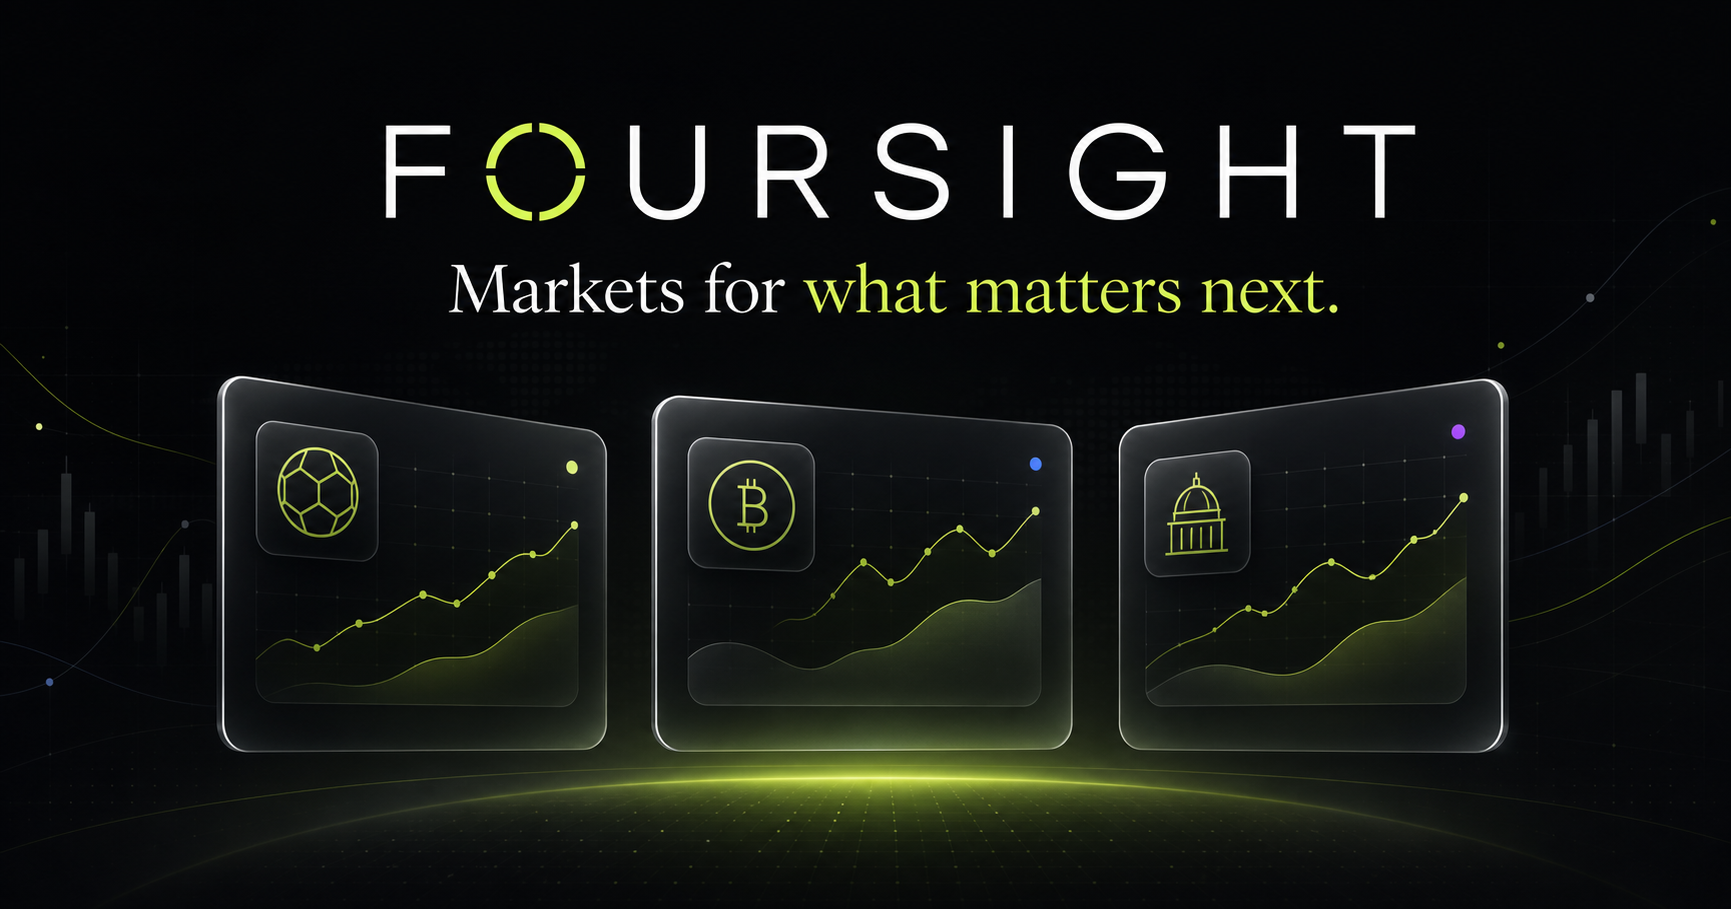
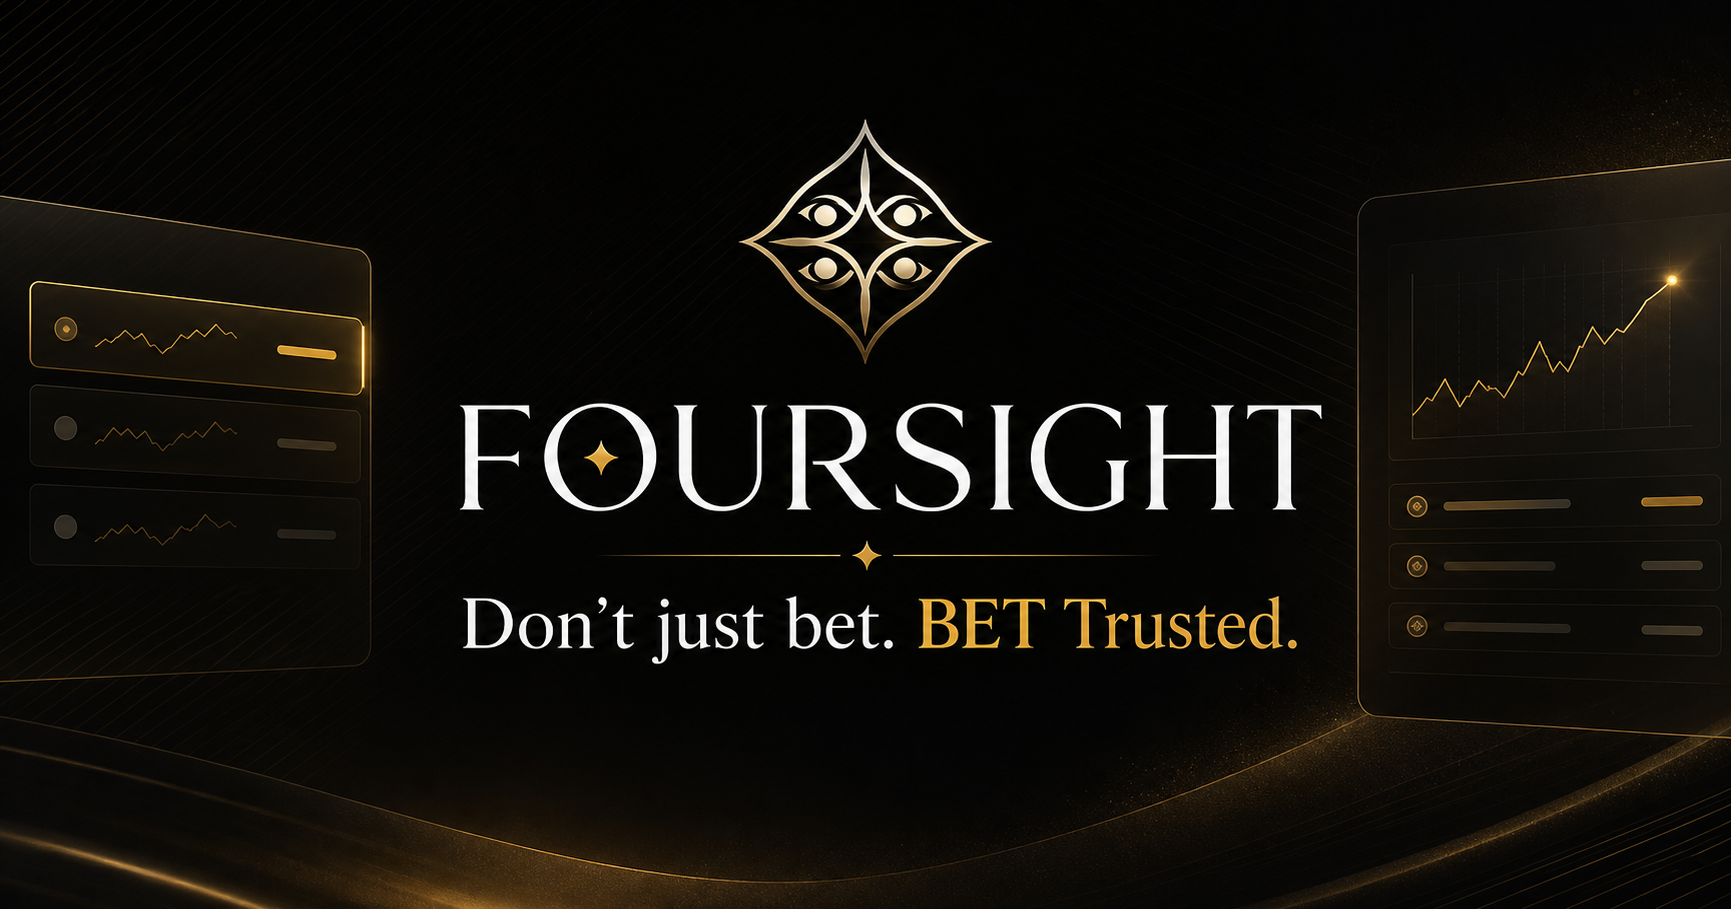
Apply black and gold Foursight identity

diff --git a/app/globals.css b/app/globals.css
@@ -1,6 +1,6 @@
 @import "tailwindcss";
 
-:root { --bg:#07090b; --panel:rgba(20,24,27,.68); --line:rgba(255,255,255,.095); --muted:#929aa3; --lime:#c9ff3d; --green:#54e38e; --text:#f5f7f2; }
+:root { --bg:#050504; --panel:rgba(22,19,10,.72); --line:rgba(255,196,0,.13); --muted:#999b9f; --lime:#ffc400; --green:#21d777; --text:#fffdf7; }
 *{box-sizing:border-box} html{scroll-behavior:smooth} body{margin:0;background:var(--bg);color:var(--text);font-family:Arial,Helvetica,sans-serif;overflow-x:hidden} button,input{font:inherit} button,a{color:inherit} button{cursor:pointer}.glass{background:linear-gradient(135deg,rgba(29,33,36,.72),rgba(11,14,16,.58));border:1px solid var(--line);box-shadow:inset 0 1px 0 rgba(255,255,255,.055),0 24px 60px rgba(0,0,0,.25);backdrop-filter:blur(24px);-webkit-backdrop-filter:blur(24px)}
 main{min-height:100vh;background-image:linear-gradient(rgba(255,255,255,.018) 1px,transparent 1px),linear-gradient(90deg,rgba(255,255,255,.018) 1px,transparent 1px);background-size:72px 72px}.ambient{position:fixed;z-index:-1;border-radius:50%;filter:blur(110px);opacity:.17}.ambient-one{width:440px;height:440px;background:#9cff45;top:-180px;left:35%}.ambient-two{width:560px;height:560px;background:#2775ca;right:-280px;top:48%}
 .nav{position:fixed;z-index:50;top:18px;left:50%;transform:translateX(-50%);width:min(1180px,calc(100% - 36px));height:66px;border-radius:18px;display:flex;align-items:center;padding:0 14px 0 20px}.brand{display:flex;align-items:center;gap:10px;text-decoration:none;font-weight:900;letter-spacing:.09em;font-size:14px}.brand-mark{display:grid;place-items:center;width:30px;height:30px;border-radius:9px;background:var(--lime);color:#071000;font-family:Georgia,serif;font-size:19px;box-shadow:0 0 24px rgba(201,255,61,.23)}.brand em{font-style:normal;font-size:8px;letter-spacing:.12em;padding:4px 6px;background:rgba(201,255,61,.12);border:1px solid rgba(201,255,61,.22);color:var(--lime);border-radius:4px}.nav nav{display:flex;gap:32px;margin:auto}.nav nav a,.footer a{color:#a4abb1;text-decoration:none;font-size:13px}.nav nav a:hover,.footer a:hover{color:white}.nav-actions{display:flex;gap:8px}.nav button{border:0}.icon-button,.topup-mini,.secondary{background:rgba(255,255,255,.045);border:1px solid var(--line)!important;border-radius:11px}.icon-button{width:38px}.topup-mini{padding:0 14px}.primary{background:var(--lime);border:1px solid var(--lime);border-radius:12px;color:#0a0d08;font-weight:800;padding:15px 21px;box-shadow:0 8px 30px rgba(201,255,61,.13);transition:.2s;text-decoration:none}.primary:hover{background:#d7ff6c;transform:translateY(-1px)}.primary.small{padding:12px 18px}.primary:disabled{opacity:.4;cursor:not-allowed;transform:none}
@@ -12,3 +12,24 @@ main{min-height:100vh;background-image:linear-gradient(rgba(255,255,255,.018) 1p
 @keyframes pop{from{opacity:0;transform:translateY(12px) scale(.98)}to{opacity:1;transform:none}}
 @media(max-width:900px){.nav nav{display:none}.nav-actions{margin-left:auto}.market-grid{grid-template-columns:repeat(2,1fr)}.how{grid-template-columns:1fr}.activity{align-items:flex-start;flex-direction:column;gap:35px}.ticker{grid-template-columns:repeat(3,1fr)}.ticker div:nth-child(n+4){display:none}.stats{width:100%;justify-content:space-between}}
 @media(max-width:620px){.nav{top:10px;height:60px}.brand em,.icon-button,.topup-mini{display:none}.hero{padding-top:145px}.hero h1{font-size:50px}.hero>p{font-size:15px}.proof{flex-wrap:wrap}.ticker{grid-template-columns:1fr}.ticker div{border:0}.ticker div:nth-child(n+2){display:none}.section-heading{align-items:flex-start;flex-direction:column;gap:15px}.market-tools{align-items:stretch;flex-direction:column}.tabs{overflow-x:auto}.tabs button{white-space:nowrap}.search{border:0;border-top:1px solid var(--line);padding:12px}.market-grid{grid-template-columns:1fr}.steps{grid-template-columns:1fr}.steps article{min-height:210px}.step-icon{margin:25px 0 18px}.activity{padding:28px}.activity h2{font-size:30px}.stats{gap:15px}.stats b{font-size:20px}.footer{grid-template-columns:1fr}.footer small{grid-column:auto}.coin-grid{grid-template-columns:repeat(2,1fr)}.modal{padding:28px 22px}.hero-actions{flex-direction:column;align-items:stretch;max-width:300px;margin-left:auto;margin-right:auto}}
+
+/* Black & gold Foursight identity */
+.glass{background:linear-gradient(135deg,rgba(27,23,12,.82),rgba(8,8,7,.72));border-color:rgba(255,196,0,.13);box-shadow:inset 0 1px 0 rgba(255,220,105,.07),0 24px 70px rgba(0,0,0,.42)}
+main{background-image:linear-gradient(rgba(255,190,0,.014) 1px,transparent 1px),linear-gradient(90deg,rgba(255,190,0,.014) 1px,transparent 1px),repeating-linear-gradient(105deg,transparent 0 10px,rgba(255,188,0,.012) 11px 12px);background-size:72px 72px,72px 72px,auto}
+.ambient{animation:ambientFloat 9s ease-in-out infinite alternate}.ambient-one{width:520px;height:520px;background:#ffb900;opacity:.2}.ambient-two{background:#7d4b00;opacity:.2;animation-delay:-4s}
+.page-watermark{position:fixed;z-index:-1;opacity:.027;filter:grayscale(1);pointer-events:none;animation:slowSpin 38s linear infinite}.watermark-left{width:310px;left:-150px;top:58%}.watermark-right{width:400px;right:-220px;top:20%;animation-direction:reverse}
+.brand-emblem{width:31px;height:31px;object-fit:contain;filter:drop-shadow(0 0 10px rgba(255,196,0,.35))}.brand-wordmark{width:104px;height:31px;object-fit:contain}.brand em{background:rgba(255,196,0,.1);border-color:rgba(255,196,0,.25);color:#ffc400}
+.primary{background:linear-gradient(135deg,#ffd02b,#ffb800);border-color:#ffc400;box-shadow:0 9px 34px rgba(255,184,0,.18)}.primary:hover{background:linear-gradient(135deg,#ffe06a,#ffc21c);box-shadow:0 12px 45px rgba(255,184,0,.3)}
+.hero{position:relative;padding-top:176px}.hero-emblem{width:58px;height:58px;object-fit:contain;margin-bottom:18px;filter:drop-shadow(0 0 24px rgba(255,196,0,.25));animation:logoPulse 3.6s ease-in-out infinite}.hero h1{font-family:Georgia,'Times New Roman',serif;letter-spacing:-.045em}.hero h1 .gold{color:#ffbd00;background:none}.rotator{position:relative;display:inline-block;width:270px;height:1.08em;vertical-align:bottom;overflow:hidden;border:1px solid rgba(255,190,0,.38);border-radius:12px;background:rgba(255,190,0,.055);box-shadow:inset 0 0 25px rgba(255,190,0,.035)}.rotator b{position:absolute;inset:0;display:grid;place-items:center;color:#fff;font-size:.55em;letter-spacing:-.025em;opacity:0;animation:wordCycle 7.5s infinite}.rotator b:nth-child(2){animation-delay:2.5s}.rotator b:nth-child(3){animation-delay:5s}
+.eyebrow{border-color:rgba(255,196,0,.2);background:rgba(255,196,0,.055)}.eyebrow i,.live-pill i{background:#ffc400;box-shadow:0 0 12px #ffc400}.market-card:hover{border-color:rgba(255,196,0,.32);box-shadow:0 25px 80px rgba(0,0,0,.48),0 0 36px rgba(255,181,0,.045)}.tabs button.active,.outcomes button:hover,.step-icon{background:rgba(255,196,0,.08);border-color:rgba(255,196,0,.25);box-shadow:inset 0 0 0 1px rgba(255,196,0,.14)}.coin-grid button.selected{border-color:rgba(255,196,0,.62);background:rgba(255,196,0,.07)}.selection{border-color:rgba(255,196,0,.24);background:rgba(255,196,0,.06)}
+.ticker{display:block;overflow:hidden;padding:16px 0}.ticker-track{display:flex!important;width:max-content;padding:0!important;border:0!important;animation:tickerMove 24s linear infinite}.ticker-track>div{width:236px;flex:none}.ticker:hover .ticker-track{animation-play-state:paused}.modal-mark img{width:29px;height:29px;object-fit:contain}.modal-mark{box-shadow:0 0 30px rgba(255,196,0,.2)}
+.market-card{animation:cardReveal .6s both}.market-card:nth-child(2){animation-delay:.07s}.market-card:nth-child(3){animation-delay:.14s}.market-card:nth-child(4){animation-delay:.21s}.market-card:nth-child(5){animation-delay:.28s}.market-card:nth-child(6){animation-delay:.35s}.steps article{transition:.3s}.steps article:hover{transform:translateY(-7px);border-color:rgba(255,196,0,.24)}
+@keyframes wordCycle{0%{opacity:0;transform:translateY(90%);filter:blur(5px)}10%,27%{opacity:1;transform:none;filter:none}34%,100%{opacity:0;transform:translateY(-90%);filter:blur(5px)}}
+@keyframes tickerMove{to{transform:translateX(-50%)}}
+@keyframes logoPulse{50%{transform:translateY(-5px) scale(1.035);filter:drop-shadow(0 0 34px rgba(255,196,0,.48))}}
+@keyframes ambientFloat{to{transform:translate3d(55px,35px,0) scale(1.12)}}
+@keyframes slowSpin{to{transform:rotate(360deg)}}
+@keyframes cardReveal{from{opacity:0;transform:translateY(20px)}to{opacity:1;transform:none}}
+@media(max-width:620px){.brand-wordmark{width:88px}.hero{padding-top:130px}.hero-emblem{width:45px;height:45px}.hero h1{font-size:47px}.rotator{display:block;width:220px;margin:8px auto 0;height:1.12em}.ticker-track>div{display:flex!important}}
+@media(prefers-reduced-motion:reduce){*,*:before,*:after{scroll-behavior:auto!important;animation-duration:.01ms!important;animation-iteration-count:1!important;transition-duration:.01ms!important}}
+.hero-emblem{display:block;margin:0 auto 18px}.rotator b:first-child{animation-delay:-.8s}

diff --git a/app/page.tsx b/app/page.tsx
@@ -49,8 +49,10 @@ export default function Home() {
   return (
     <main>
       <div className="ambient ambient-one" /><div className="ambient ambient-two" />
+      <img className="page-watermark watermark-left" src="/foursight-emblem.png" alt="" />
+      <img className="page-watermark watermark-right" src="/foursight-logo-alt.png" alt="" />
       <header className="nav glass">
-        <a className="brand" href="#top"><span className="brand-mark">F</span><span>FOURSIGHT</span><em>BETA</em></a>
+        <a className="brand" href="#top"><img className="brand-emblem" src="/foursight-emblem.png" alt=""/><img className="brand-wordmark" src="/foursight-wordmark.png" alt="Foursight"/><em>BETA</em></a>
         <nav><a href="#markets">Markets</a><a href="#how">How it works</a><a href="#activity">Activity</a></nav>
         <div className="nav-actions">
           <button className="icon-button" aria-label="Search markets" onClick={() => document.getElementById("market-search")?.focus()}>⌕</button>
@@ -60,15 +62,16 @@ export default function Home() {
       </header>
 
       <section className="hero" id="top">
+        <img className="hero-emblem" src="/foursight-emblem.png" alt=""/>
         <div className="eyebrow"><i /> LIVE PREDICTION MARKETS <span>•</span> DEMO EXPERIENCE</div>
-        <h1>See the outcome.<br/><span>Own the moment.</span></h1>
-        <p>Trade your conviction on sports, politics, crypto and culture. Fast markets, clear odds, zero clutter.</p>
+        <h1>Don’t just bet.<br/><span className="gold">BET</span> <span className="rotator"><b>Trusted</b><b>Instant</b><b>Private</b></span></h1>
+        <p>Trade outcomes privately. No frontruns. No copycats. Only pure conviction — wrapped in a clean, premium market experience.</p>
         <div className="hero-actions"><a className="primary" href="#markets">Explore markets <span>→</span></a><button className="secondary" onClick={() => setTopupOpen(true)}>Top up balance</button></div>
         <div className="proof"><span className="avatar-stack"><b>J</b><b>K</b><b>A</b></span><strong>14,280</strong> traders active today <i /> <strong>$72.4M</strong> 24h volume</div>
       </section>
 
       <section className="ticker glass" aria-label="Live market ticker">
-        {[['BTC','$64,213','+0.59%'],['ETH','$1,819','+1.84%'],['SOL','$77.91','+0.25%'],['BNB','$580.35','+0.92%'],['XRP','$1.12','+1.45%']].map(x => <div key={x[0]}><b>{x[0]}</b><span>{x[1]}</span><em>↗ {x[2]}</em></div>)}
+        <div className="ticker-track">{[...Array(2)].flatMap((_,loop) => [['BTC','$64,213','+0.59%'],['ETH','$1,819','+1.84%'],['SOL','$77.91','+0.25%'],['BNB','$580.35','+0.92%'],['XRP','$1.12','+1.45%']].map(x => <div key={`${loop}-${x[0]}`}><b>{x[0]}</b><span>{x[1]}</span><em>↗ {x[2]}</em></div>))}</div>
       </section>
 
       <section className="market-section" id="markets">
@@ -106,11 +109,11 @@ export default function Home() {
         <div className="stats"><span><b>$2.8B</b>Total volume</span><span><b>92K</b>Predictions</span><span><b>182</b>Open markets</span></div>
       </section>
 
-      <footer className="footer"><a className="brand" href="#top"><span className="brand-mark">F</span><span>FOURSIGHT</span></a><p>Markets for what matters next.</p><div><a href="#markets">Markets</a><a href="#how">How it works</a><a href="#">Terms</a><a href="#">Privacy</a></div><small>© 2026 Foursight. Interactive product demo — no real-money transactions.</small></footer>
+      <footer className="footer"><a className="brand" href="#top"><img className="brand-emblem" src="/foursight-emblem.png" alt=""/><img className="brand-wordmark" src="/foursight-wordmark.png" alt="Foursight"/></a><p>Markets for what matters next.</p><div><a href="#markets">Markets</a><a href="#how">How it works</a><a href="#">Terms</a><a href="#">Privacy</a></div><small>© 2026 Foursight. Interactive product demo — no real-money transactions.</small></footer>
 
       {(loginOpen || topupOpen || bet) && <div className="modal-wrap" onMouseDown={e => e.target === e.currentTarget && closeModals()}>
         {loginOpen && <div className="modal glass" role="dialog" aria-modal="true" aria-labelledby="login-title">
-          <button className="close" onClick={closeModals}>×</button><span className="modal-mark">F</span><h2 id="login-title">Welcome to Foursight</h2><p>Sign in to track positions and manage your demo portfolio.</p>
+          <button className="close" onClick={closeModals}>×</button><span className="modal-mark"><img src="/foursight-emblem.png" alt=""/></span><h2 id="login-title">Welcome to Foursight</h2><p>Sign in to track positions and manage your demo portfolio.</p>
           <button className="wallet-button" onClick={() => {setLoggedIn(true); closeModals();}}><span>◉</span> Continue with wallet <b>→</b></button>
           <div className="or"><span/>or<span/></div><label>Email address<input type="email" placeholder="you@example.com" /></label><button className="primary full" onClick={() => {setLoggedIn(true); closeModals();}}>Continue with email</button><small>Demo only. No credentials or wallet connection are stored.</small>
         </div>}
